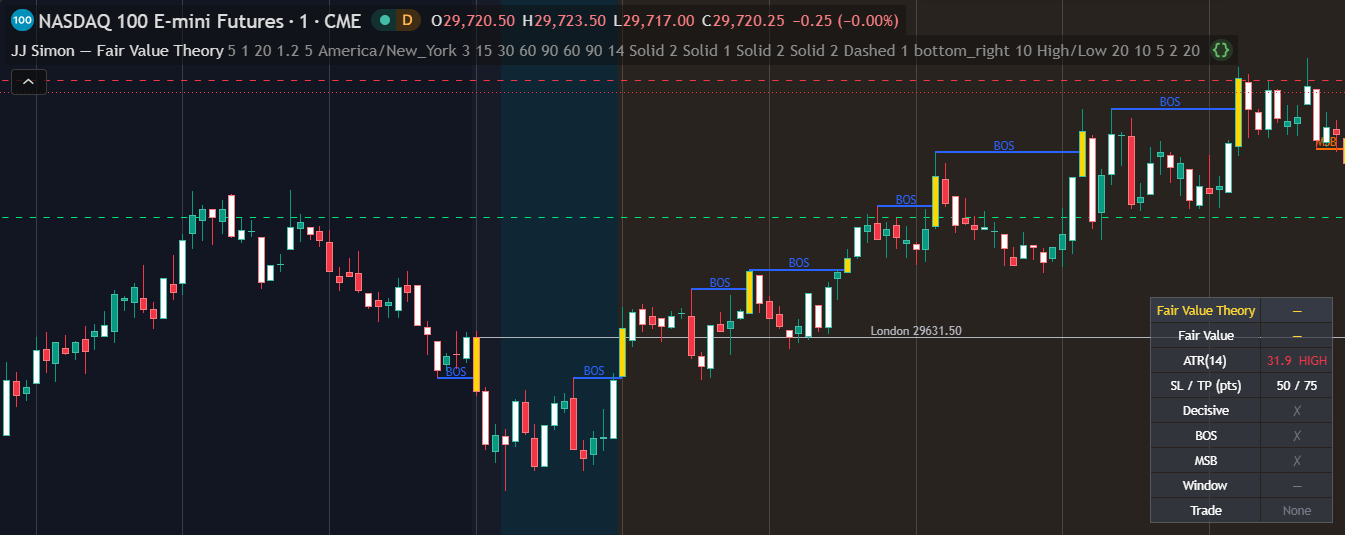
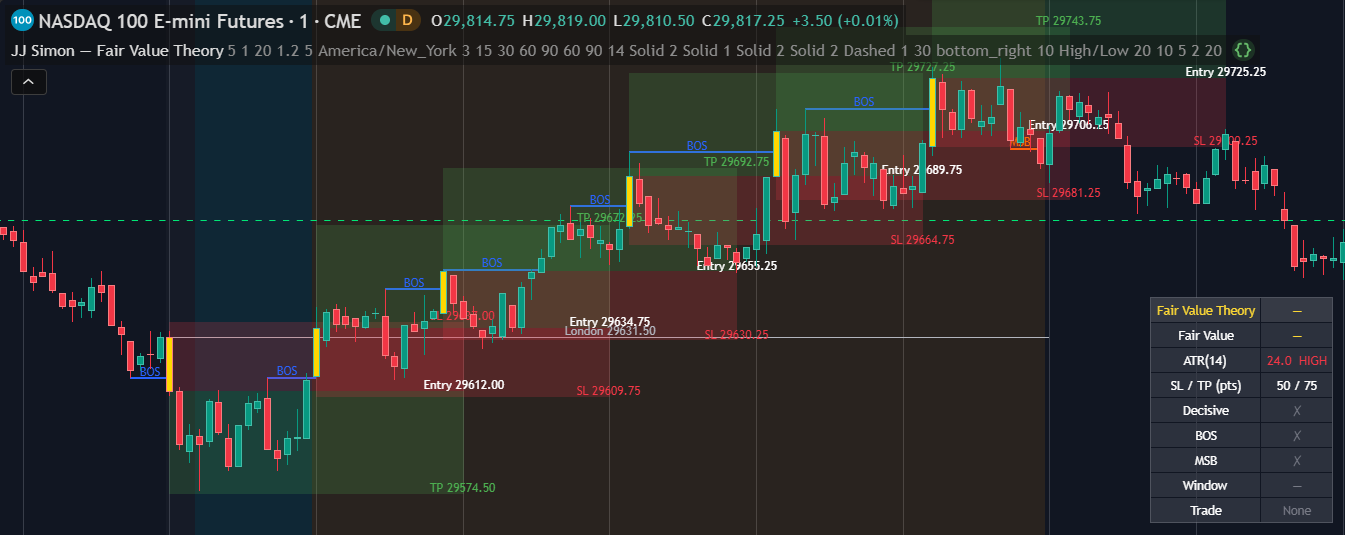
Add trade placement boxes (TP/SL zones + labels) on A+ signals
On each gold (A+ = decisive + same-candle break) candle, draw a green TP zone
and red SL zone projected forward (tradeLen bars), with Entry/TP/SL price
labels. SL/TP distances from the ATR bucket at 1.5R (50/75, 25/37.5,
16.5/24.75); direction = the break direction (up-break long, down-break short);
long/short geometry handled via max/min. Inputs: show toggle, "Only in-window
(recommended) setups" filter (off by default), box length, box colors.
max_boxes_count=500. Compiled clean and verified rendering live on NQ 1-min.

Note: with the in-window filter off, a box draws on every gold candle, which is
visually noisy; the filter restricts to actionable rec-fired trades.

diff --git a/tested-strategies/PropFirmMath/NOTES.md b/tested-strategies/PropFirmMath/NOTES.md
@@ -75,6 +75,11 @@ to $10k → withdraw $5k → repeat, target 3x eval spend. The "genius" is Layer
   (A+) candles paint. Entry timing clarified: gold candle = trigger, confirmed at its CLOSE
   (break + decisive both on that candle) → market-enter ⇒ fill at NEXT candle open, target 1.5R
   (FX Replay "market enter targeting 1.5R"). NB: right=1 pivot confirms 1 bar late.
+- 2026-06-26 — Trade placement boxes: on each gold A+ candle draw a green TP zone + red SL zone
+  (1.5R, ATR-bucket pts: 50/75, 25/37.5, 16.5/24.75) projected `tradeLen` bars, with Entry/TP/SL
+  price labels; direction = break direction (upBreak=long). Toggle "Only in-window (recommended)
+  setups" restricts to actionable rec-fired trades (default OFF = all gold candles, which is noisy
+  — likely flip default later). `max_boxes_count=500`. Geometry via max/min handles long/short.
 - Also (prior, parallel sub-project): **EV-app design spec committed** (`docs/superpowers/specs/2026-06-26-propfirm-ev-app-design.md`,
   commit 1581157) — Streamlit+SQLite calculator+tracker; approved, **awaiting user spec review → writing-plans**.
 